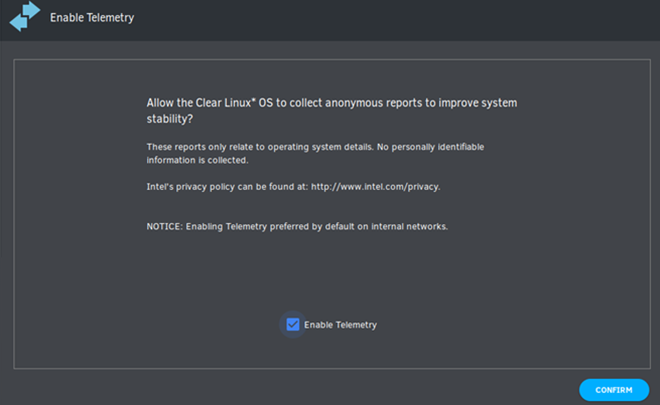
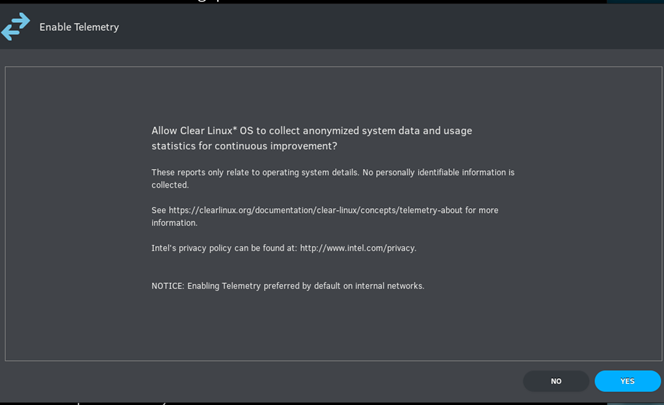
Update telemetry figure per Engineering to reflect clr-installer 2.0.8.
Revise instruction to match new GUI.

diff --git a/source/clear-linux/get-started/bare-metal-install-desktop/bare-metal-install-desktop.rst b/source/clear-linux/get-started/bare-metal-install-desktop/bare-metal-install-desktop.rst
@@ -356,15 +356,13 @@ team for improvements. For more information, see :ref:`telemetry-about`.
 
 #. Select :kbd:`Confirm`.
 
-#. If you don't wish to participate, deselect :kbd:`Enable Telemetry`.
-
-#. Select :kbd:`Confirm`.
-
    .. figure:: figures/bare-metal-install-desktop-12.png
       :scale: 100%
       :alt: Enable Telemetry
 
       Figure 12: Enable Telemetry
+
+#. If you don't wish to participate, select :kbd:`No`.
 
 Advanced options
 ****************
